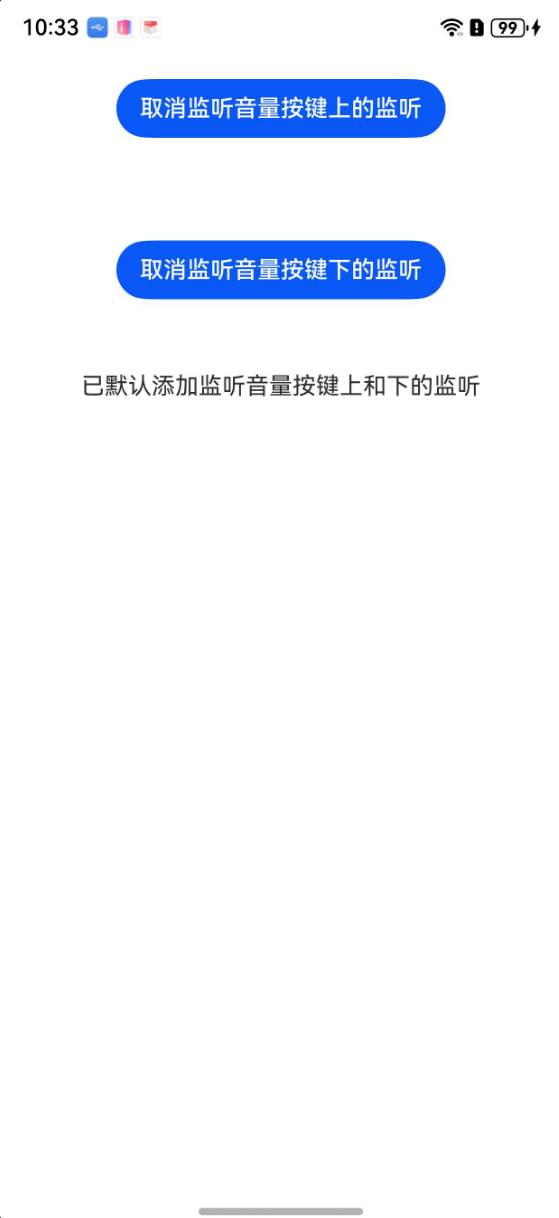
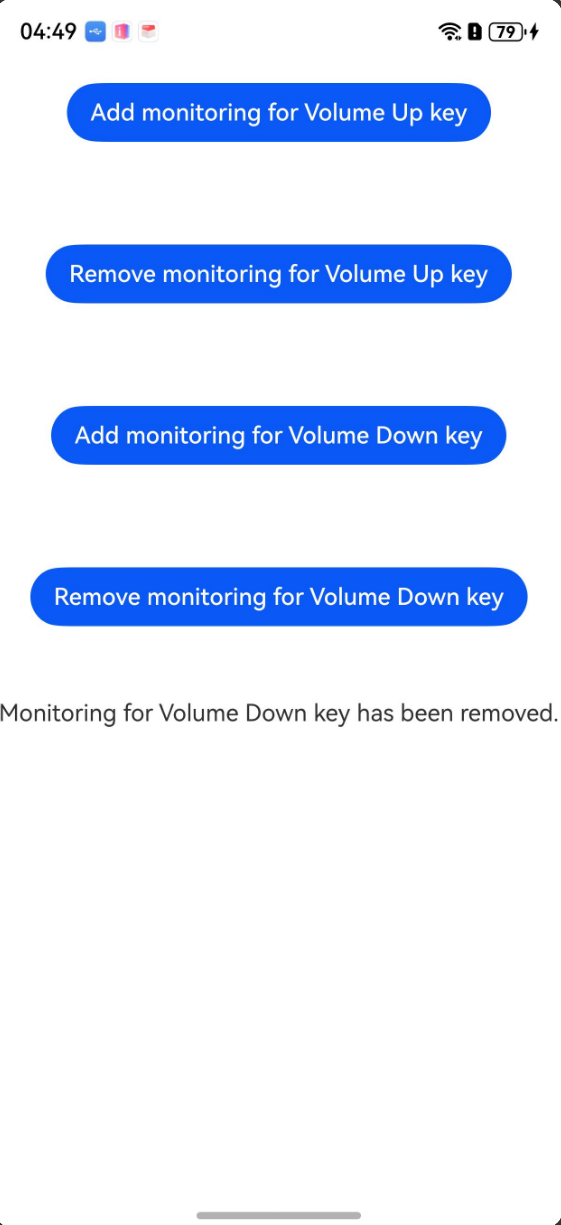
add diff zongyao

diff --git a/code/DocsSample/input/NDKInputEventInterceptor/ohosTest.md b/code/DocsSample/input/NDKInputEventInterceptor/ohosTest.md
@@ -2,23 +2,23 @@
 
 ## 用例表
 
-| 测试功能       | 预置条件      | 输入             | 预期输出                     | 是否自动 | 测试结果 |
-|------------|-----------|----------------|--------------------------|------|------|
-| 拉起应用       | 设备正常运行    |                | 成功拉起应用                   | 是    | Pass |
-| 添加按键事件拦截   | 未添加按键事件拦截 | 点击**添加按键事件拦截** | 页面显示**添加按键事件拦截成功，返回码为0** | 是    | Pass |
-| 按键事件拦截     | 已添加按键事件拦截 | 在输入框输入文本       | 输入被拦截，页面实时显示拦截到的按键事件     | 否    | Pass |
-| 移除按键事件拦截   | 已添加按键事件拦截 | 点击**移除按键事件拦截** | 页面显示**移除按键事件拦截成功，返回码为0** | 是    | Pass |
-| 按键事件不拦截    | 已移除按键事件拦截 | 在输入框输入文本       | 输入不被拦截，页面不显示拦截到的按键事件     | 否    | Pass |
-| 添加输入事件拦截   | 未添加输入事件拦截 | 点击**添加输入事件拦截** | 页面显示**添加输入事件拦截成功，返回码为0** | 是    | Pass |
-| 鼠标输入事件拦截   | 已添加输入事件拦截 | 使用鼠标           | 输入被拦截，页面实时显示拦截到的鼠标事件     | 否    | Pass |
-| 触摸输入事件拦截   | 已添加输入事件拦截 | 使用触屏功能         | 输入被拦截，页面实时显示拦截到的触摸事件     | 否    | Pass |
-| 捏合轴输入事件拦截  | 已添加输入事件拦截 | 在触摸板进行捏合操作     | 输入被拦截，页面实时显示拦截到的捏合轴事件    | 否    | Pass |
-| 滚轮轴输入事件拦截  | 已添加输入事件拦截 | 使用鼠标滚轮         | 输入被拦截，页面实时显示拦截到的滚轮轴事件    | 否    | Pass |
-| 移除输入事件拦截   | 已添加输入事件拦截 | 点击**移除输入事件拦截** | 页面显示**移除输入事件拦截成功，返回码为0** | 是    | Pass |
-| 鼠标输入事件不拦截  | 已移除输入事件拦截 | 使用鼠标           | 输入不被拦截，页面不显示拦截到的鼠标事件     | 否    | Pass |
-| 触摸输入事件不拦截  | 已移除输入事件拦截 | 使用触屏功能         | 输入不被拦截，页面不显示拦截到的鼠标事件     | 否    | Pass |
-| 捏合轴输入事件不拦截 | 已移除输入事件拦截 | 在触摸板进行捏合操作     | 输入不被拦截，页面不显示拦截到的鼠标事件     | 否    | Pass |
-| 滚轮轴输入事件不拦截 | 已移除输入事件拦截 | 使用鼠标滚轮         | 输入不被拦截，页面不显示拦截到的鼠标事件     | 否    | Pass |
+| 测试功能       | 预置条件      | 输入                                  | 预期输出                                             | 是否自动 | 测试结果 |
+|------------|-----------|-------------------------------------|--------------------------------------------------|------|------|
+| 拉起应用       | 设备正常运行    |                                     | 成功拉起应用                                           | 是    | Pass |
+| 添加按键事件拦截   | 未添加按键事件拦截 | 点击**添加按键事件拦截**                      | 页面显示**添加按键事件拦截成功，返回码为0**                         | 是    | Pass |
+| 按键事件拦截     | 已添加按键事件拦截 | 在输入框输入文本                            | 输入被拦截，页面实时显示拦截到的按键事件                             | 否    | Pass |
+| 移除按键事件拦截   | 已添加按键事件拦截 | 点击**移除按键事件拦截**                      | 页面显示**移除按键事件拦截成功，返回码为0**                         | 是    | Pass |
+| 按键事件不拦截    | 已移除按键事件拦截 | 在输入框输入文本                            | 输入不被拦截，页面不显示拦截到的按键事件                             | 否    | Pass |
+| 添加输入事件拦截   | 未添加输入事件拦截 | 点击**添加输入事件拦截，输入事件包括：鼠标事件、触摸事件、轴事件** | 页面显示**添加输入事件拦截成功，返回码为0，30秒后自动取消输入事件拦截**，30秒后取消拦截 | 是    | Pass |
+| 鼠标输入事件拦截   | 已添加输入事件拦截 | 使用鼠标                                | 输入被拦截，页面实时显示拦截到的鼠标事件                             | 否    | Pass |
+| 触摸输入事件拦截   | 已添加输入事件拦截 | 使用触屏功能                              | 输入被拦截，页面实时显示拦截到的触摸事件                             | 否    | Pass |
+| 捏合轴输入事件拦截  | 已添加输入事件拦截 | 在触摸板进行捏合操作                          | 输入被拦截，页面实时显示拦截到的捏合轴事件                            | 否    | Pass |
+| 滚轮轴输入事件拦截  | 已添加输入事件拦截 | 使用鼠标滚轮                              | 输入被拦截，页面实时显示拦截到的滚轮轴事件                            | 否    | Pass |
+| 移除输入事件拦截   | 已添加输入事件拦截 | 点击**移除输入事件拦截，输入事件包括：鼠标事件、触摸事件、轴事件** | 页面显示接口调用结果                                       | 是    | Pass |
+| 鼠标输入事件不拦截  | 已移除输入事件拦截 | 使用鼠标                                | 输入不被拦截，页面不显示拦截到的鼠标事件                             | 否    | Pass |
+| 触摸输入事件不拦截  | 已移除输入事件拦截 | 使用触屏功能                              | 输入不被拦截，页面不显示拦截到的鼠标事件                             | 否    | Pass |
+| 捏合轴输入事件不拦截 | 已移除输入事件拦截 | 在触摸板进行捏合操作                          | 输入不被拦截，页面不显示拦截到的鼠标事件                             | 否    | Pass |
+| 滚轮轴输入事件不拦截 | 已移除输入事件拦截 | 使用鼠标滚轮                              | 输入不被拦截，页面不显示拦截到的鼠标事件                             | 否    | Pass |
 
 
 

diff --git a/code/DocsSample/input/ArkTSInputConsumer/ohosTest.md b/code/DocsSample/input/ArkTSInputConsumer/ohosTest.md
@@ -2,14 +2,15 @@
 
 ## 用例表
 
-| 测试功能         | 预置条件           | 输入                 | 预期输出                     | 是否自动 | 测试结果 |
-|--------------|----------------|--------------------|--------------------------|------|------|
-| 拉起应用         | 设备正常运行         |                    | 成功拉起应用                   | 是    | Pass |
-| 音量上键按键事件拦截监听 | 音量上键按键事件拦截监听开启 | 点击音量上键             | 弹窗显示**点击了音量键上**，音量不被调节   | 否    | Pass |
-| 音量下键按键事件拦截监听 | 音量下键按键事件拦截监听开启 | 点击音量下键             | 弹窗显示**点击了音量键下**，音量不被调节   | 否    | Pass |
-| 取消音量上键的拦截监听  | 音量上键按键事件拦截监听开启 | 点击**Cancel monitoring on the volume button** | 弹窗显示**取消监听音量按键上的监听事件成功** | 是    | Pass |
-| 取消音量下键的拦截监听  | 音量下键按键事件拦截监听开启 | 点击**Cancel monitoring under the volume button** | 弹窗显示**取消监听音量按键下的监听事件成功** | 是    | Pass |
-| 取消音量上键拦截监听   | 已取消音量上键的拦截监听   | 点击音量上键             | 无弹窗，音量增加                 | 否    | Pass |
-| 取消音量下键拦截监听   | 已取消音量下键的拦截监听   | 点击音量下键             | 无弹窗，音量减小                 | 否    | Pass |
-
+| 测试功能         | 预置条件           | 输入                                          | 预期输出                                                         | 是否自动 | 测试结果 |
+|--------------|----------------|---------------------------------------------|--------------------------------------------------------------|------|------|
+| 拉起应用         | 设备正常运行         |                                             | 成功拉起应用                                                       | 是    | Pass |
+| 音量上键按键事件拦截监听 | 音量上键按键事件拦截监听开启 | 点击音量上键                                      | 弹窗显示**点击了音量键上**，音量不被调节                                       | 否    | Pass |
+| 音量下键按键事件拦截监听 | 音量下键按键事件拦截监听开启 | 点击音量下键                                      | 弹窗显示**点击了音量键下**，音量不被调节                                       | 否    | Pass |
+| 取消音量上键的拦截监听  | 音量上键按键事件拦截监听开启 | 点击**Remove monitoring for Volume Up key**   | 弹窗显示**Successfully removed monitoring for Volume UP key!**   | 是    | Pass |
+| 取消音量下键的拦截监听  | 音量下键按键事件拦截监听开启 | 点击**Remove monitoring for Volume Down key** | 弹窗显示**Successfully removed monitoring for Volume Down key!** | 是    | Pass |
+| 取消音量上键拦截监听   | 已取消音量上键的拦截监听   | 点击音量上键                                      | 无弹窗，音量增加                                                     | 否    | Pass |
+| 取消音量下键拦截监听   | 已取消音量下键的拦截监听   | 点击音量下键                                      | 无弹窗，音量减小                                                     | 否    | Pass |
+| 添加音量上键的拦截监听  | 无              | 点击**Add monitoring for Volume Up key**      | 弹窗显示**Successfully added monitoring for Volume UP key!**     | 是    | Pass |
+| 添加音量下键的拦截监听  | 无              | 点击**Add monitoring for Volume Down key**    | 弹窗显示**Successfully added monitoring for Volume Down key!**   | 是    | Pass |
 

diff --git a/code/DocsSample/input/ArkTSInputConsumer/README_zh.md b/code/DocsSample/input/ArkTSInputConsumer/README_zh.md
@@ -15,7 +15,8 @@
 1. 安装编译生成的hap包,打开应用时会自动添加对音量上下键的拦截监听。
 2. 使用音量上下键，按键事件会被拦截并在页面弹出提示，无法正常调节音量。
 3. 点击对应按钮取消对音量上下键的拦截监听，再次使用音量上下键，可以正常调节音量。
-4. 进入"DocsSample/InputKit/ArkTSInputConsumer/entry/src/ohosTest/ets/test/Ability.test.ets"文件，可以对本项目进行UI的自动化测试。
+4. 点击对应按钮重新添加对音量上下键的拦截监听，再次使用音量上下键，无法正常调节音量。
+5. 进入"DocsSample/InputKit/ArkTSInputConsumer/entry/src/ohosTest/ets/test/Ability.test.ets"文件，可以对本项目进行UI的自动化测试。
 
 ## 工程目录
 
